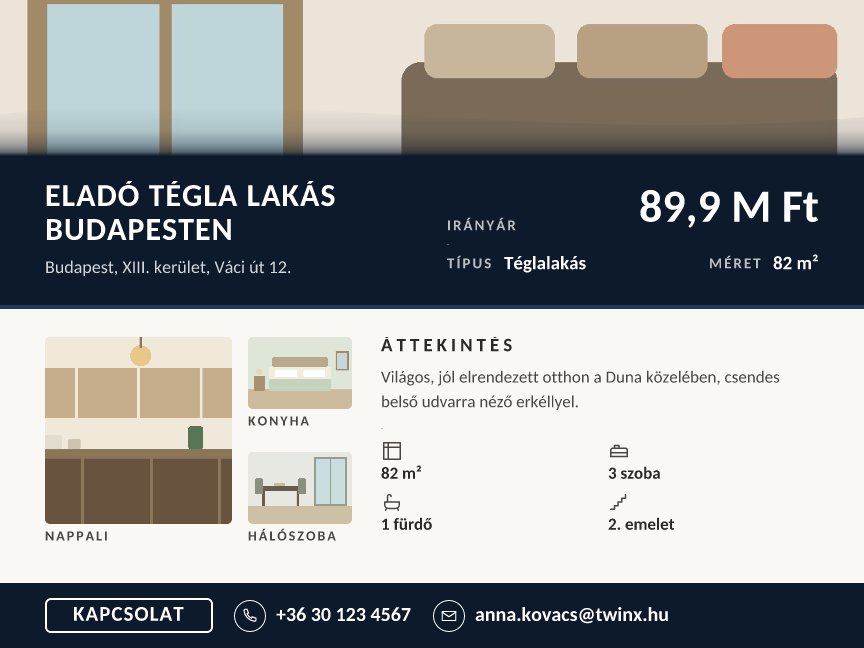
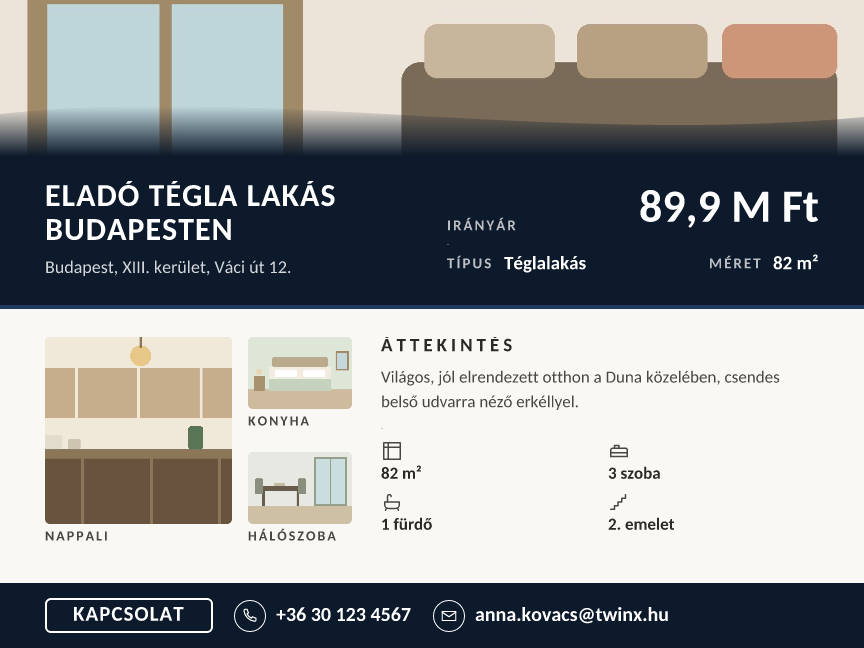
Adatlap: teljesen lineáris, egyenletes átmenet az ívelt sávnál

Changed region(s): [[0.0, 0.1543, 1.0, 0.2469]]

diff --git a/src/lib/flyer-satori-unit.tsx b/src/lib/flyer-satori-unit.tsx
@@ -75,14 +75,11 @@ export function buildUnitElement(o: RenderOpts, family: string): React.ReactElem
           "linearGradient",
           { id: "twxCurveFade", x1: "0", y1: "1", x2: "0", y2: "0" },
           [
-            // MEREDEK átmenet: közvetlenül a sáv fölött már erősen világosodik,
-            // az alsó negyedben ~35%-ra esik, feljebb szinte teljesen eltűnik —
-            // így a főképből alig takar ki valamit.
+            // EGYENLETES (lineáris) átmenet: alul tömör, fölfelé egyenletes ütemben
+            // fogy el. Közbülső pontok NINCSENEK — azok korábban egy szűk sávba
+            // sűrítették a világosodást, fölötte pedig alig változott a szín.
             React.createElement("stop", { key: 0, offset: "0%", stopColor: t.band, stopOpacity: 1 }),
-            React.createElement("stop", { key: 1, offset: "8%", stopColor: t.band, stopOpacity: 0.6 }),
-            React.createElement("stop", { key: 2, offset: "22%", stopColor: t.band, stopOpacity: 0.35 }),
-            React.createElement("stop", { key: 3, offset: "50%", stopColor: t.band, stopOpacity: 0.1 }),
-            React.createElement("stop", { key: 4, offset: "100%", stopColor: t.band, stopOpacity: 0 }),
+            React.createElement("stop", { key: 1, offset: "100%", stopColor: t.band, stopOpacity: 0 }),
           ]
         )
       ),
